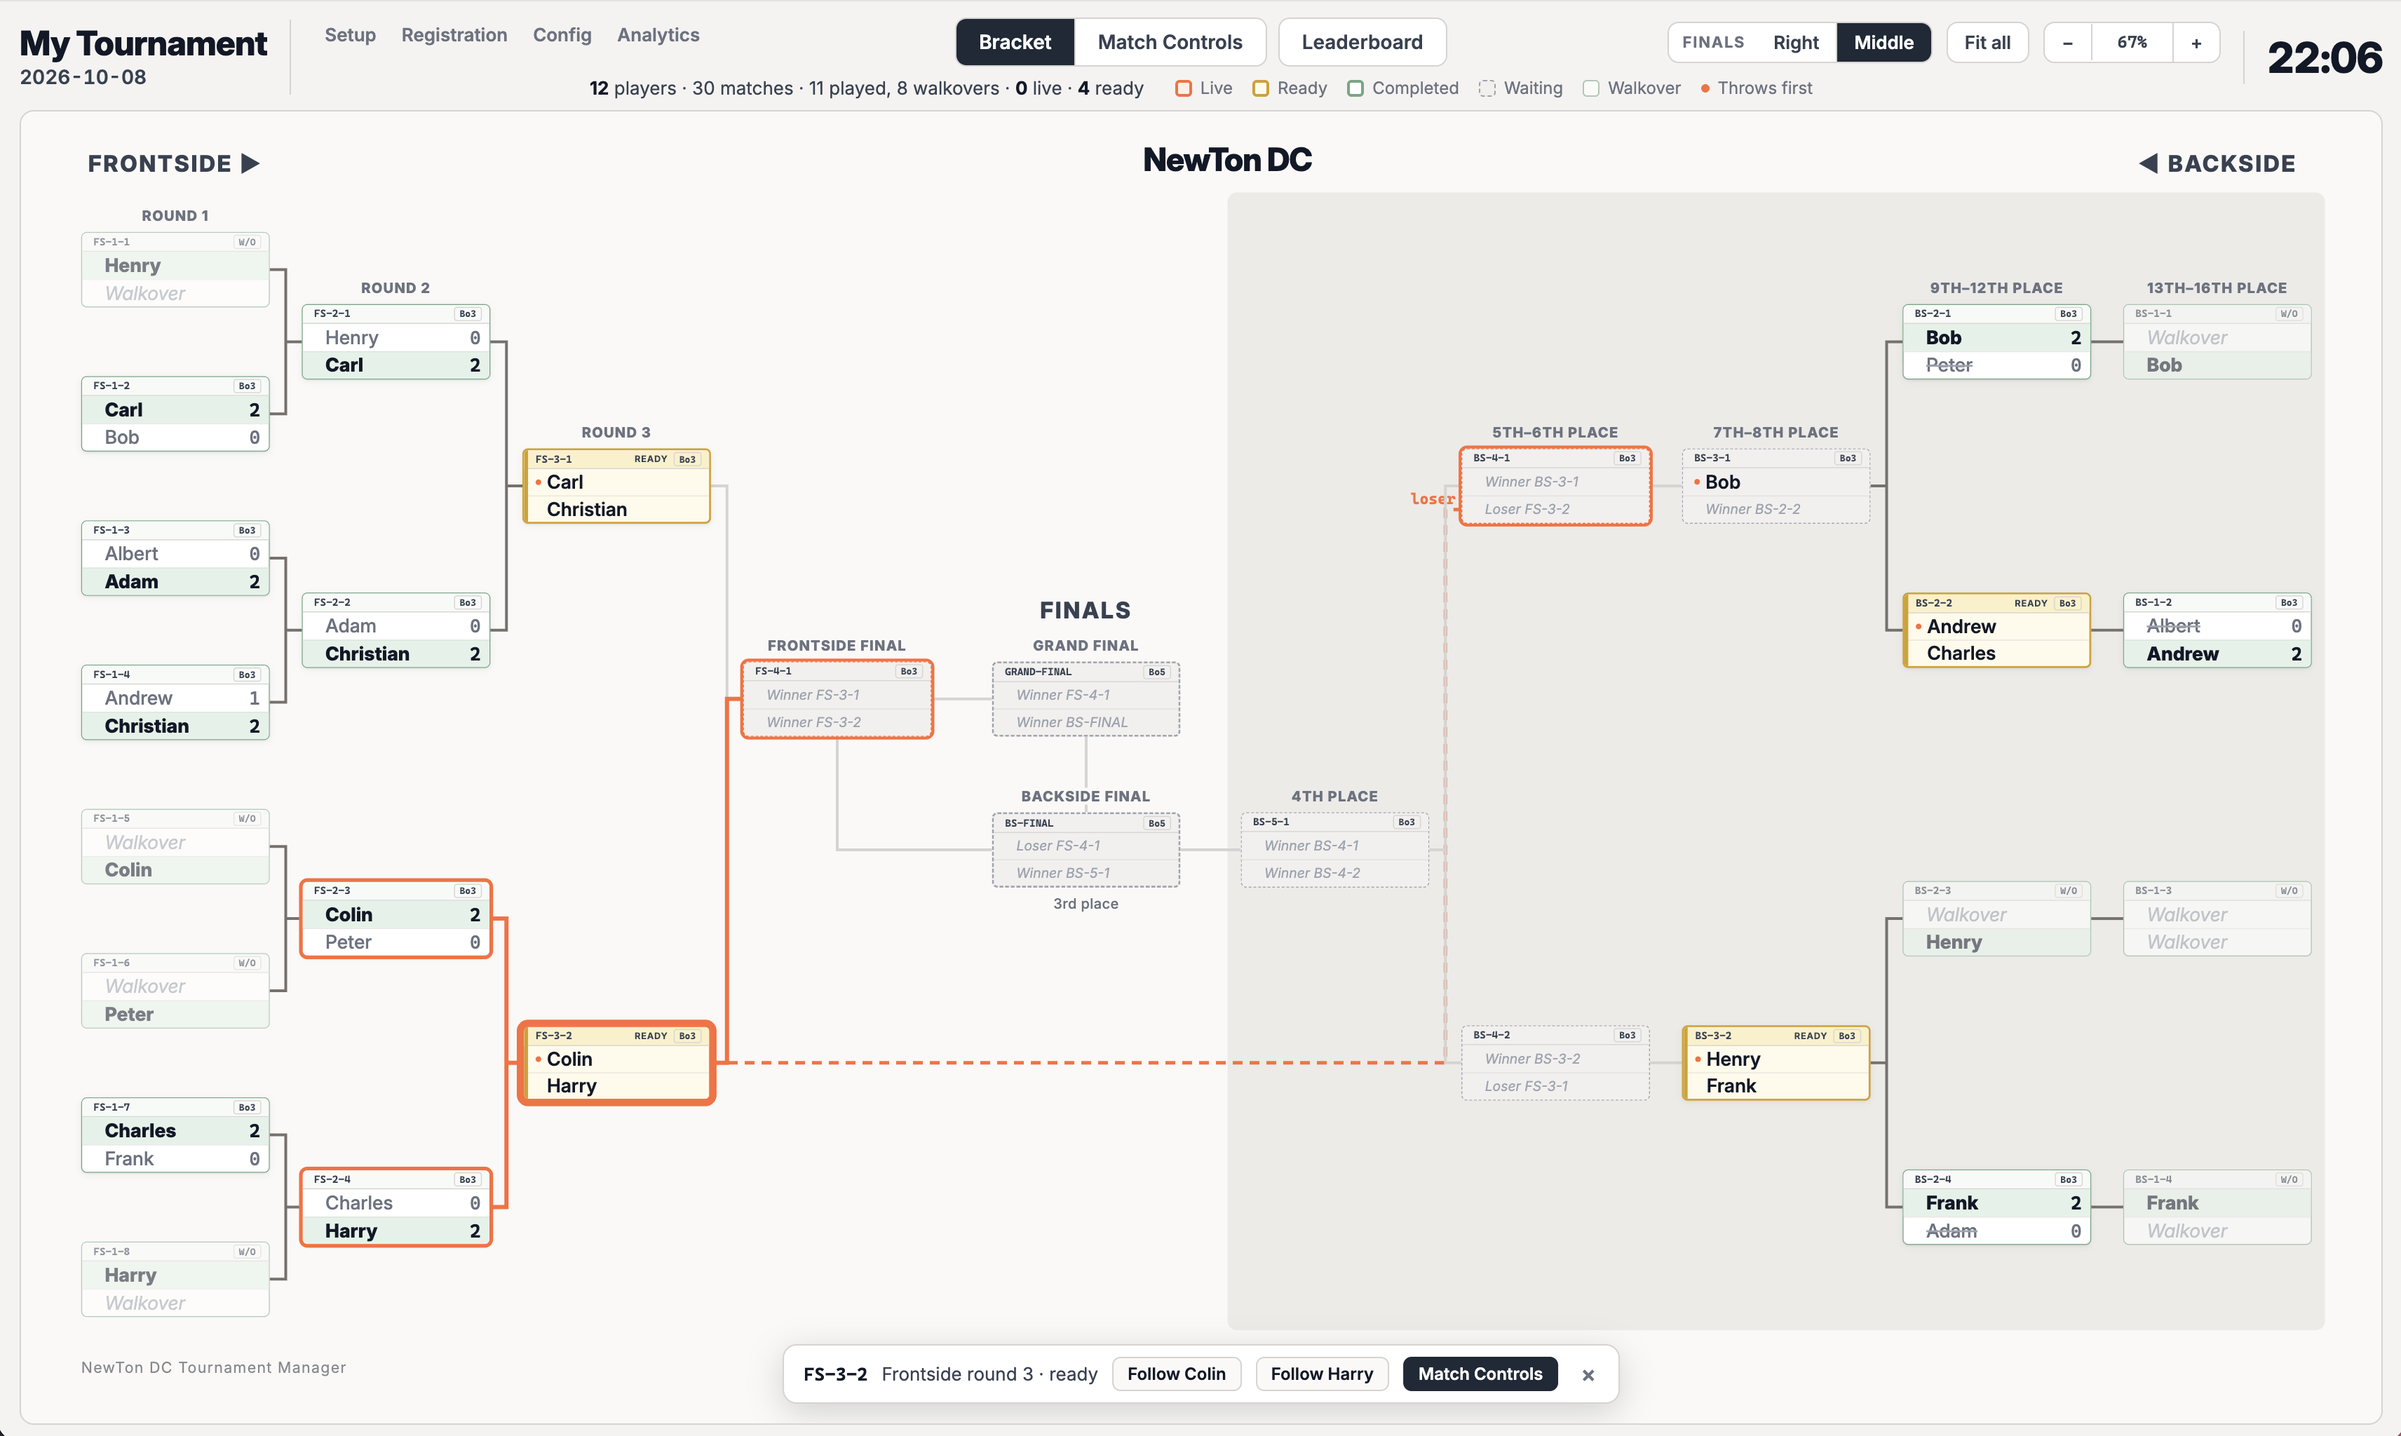
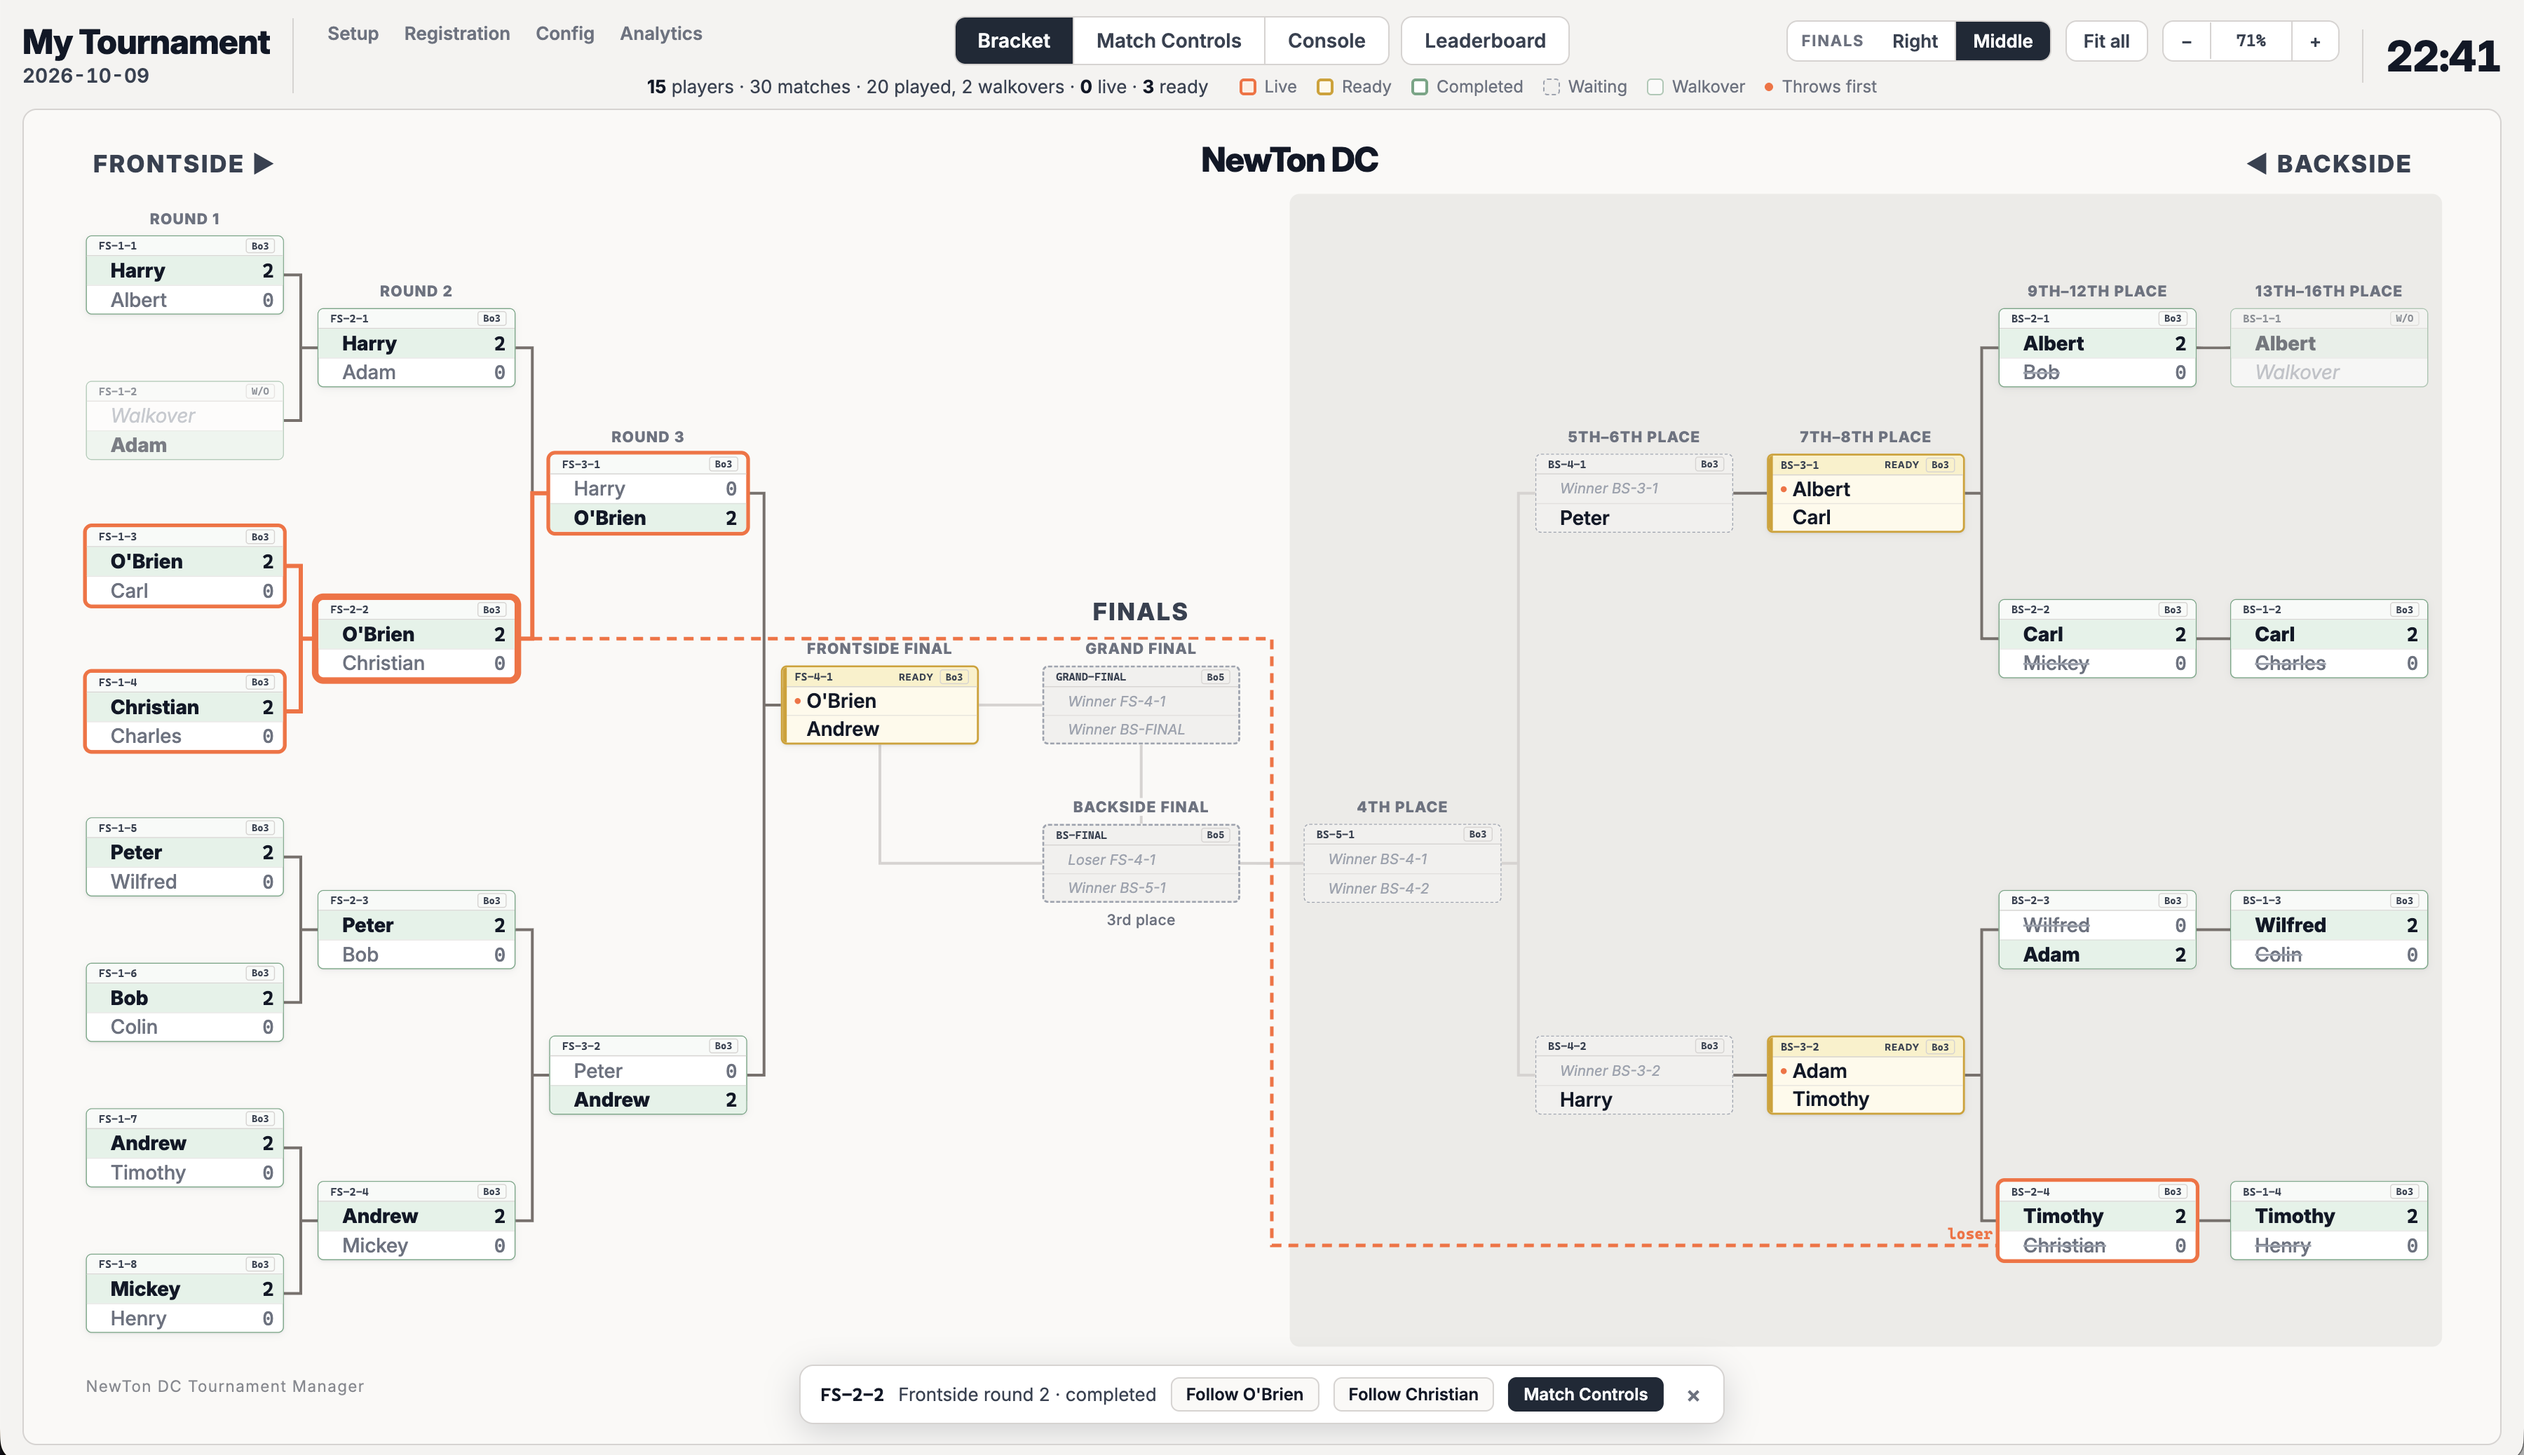
Bracket: loser drops bend halfway, clear of cards and lines
A selected match's loser drop bent just before its target column, on top
of the backside's own forks. It now bends in the column gap nearest
halfway that crosses no card and runs along no line; the winner lines
are drawn first so the drops know where the forks run.
New bracket screenshot for the landing page and README.

diff --git a/js/bracket-view.js b/js/bracket-view.js
@@ -671,8 +671,22 @@ const BracketView = (() => {
         const boxes = st.ids.map(i => ({ id: i, x0: pos[i].x, x1: pos[i].x + W, y0: pos[i].y, y1: pos[i].y + H }));
         const crosses = (xa, xb, yy, skip) => boxes.some(b => !skip.includes(b.id) && yy > b.y0 - 4 && yy < b.y1 + 4 &&
             Math.max(xa, xb) > b.x0 && Math.min(xa, xb) < b.x1);
+        // the middle of every gap between two columns of cards (where a loser drop may bend)
+        const colX = [...new Set(boxes.map(b => b.x0))].sort((a, b) => a - b);
+        const gaps = colX.slice(1).map((x, i) => [colX[i] + W, x]).filter(([a, b]) => b > a).map(([a, b]) => (a + b) / 2);
         const edges = [];
-        st.ids.forEach(src => ['winner', 'loser'].forEach(kind => {
+        // every vertical run drawn so far, [x, y from, y to]: a loser drop never bends along one
+        const vRuns = [];
+        const addRuns = path => {
+            let x = 0, y = 0;
+            (path.match(/[MHV][^MHV]+/g) || []).forEach(tok => {
+                const n = tok.slice(1).trim().split(/\s+/).map(Number);
+                if (tok[0] === 'M') { x = n[0]; y = n[1]; } else if (tok[0] === 'H') x = n[0];
+                else { vRuns.push([x, Math.min(y, n[0]), Math.max(y, n[0])]); y = n[0]; }
+            });
+        };
+        // the winner lines first, so the loser drops know where the forks run
+        ['winner', 'loser'].forEach(kind => st.ids.forEach(src => {
             const d = prog[src] && prog[src][kind]; if (!d) return;
             const [dst, slot] = d;
             const s = pos[src], t = pos[dst];
@@ -720,7 +734,21 @@ const BracketView = (() => {
                 // loser drops on selection: enter the player row they fill
                 const y1 = cy(src), y2 = always ? cy(dst) : slotY(dst, slot);
                 const adjacent = Math.abs(x2 - x1) <= Math.max(GX, CENTER_GAP, FINALS_GAP) + 1;
-                const mx = adjacent ? (x1 + x2) / 2 : x2 - dir * GX / 2;
+                let mx = adjacent ? (x1 + x2) / 2 : x2 - dir * GX / 2;
+                // a loser drop bends as near halfway as it can (an S or Z): in the column gap nearest
+                // halfway that crosses no card and runs along no line, clear of the target side's own
+                // forks in the gap before its column. Where there is none, it keeps the late bend
+                if (kind === 'loser' && !always && !adjacent) {
+                    const half = (x1 + x2) / 2, ya = Math.min(y1, y2), yb = Math.max(y1, y2), skip = [src, dst];
+                    const clear = x => !boxes.some(b => !skip.includes(b.id) && x > b.x0 - 4 && x < b.x1 + 4 && yb > b.y0 && ya < b.y1) &&
+                        !vRuns.some(([vx, a, b]) => Math.abs(vx - x) < 4 && b > ya && a < yb) &&
+                        !crosses(x1, x, y1, skip) && !crosses(x, x2, y2, skip);
+                    const between = x => (x - x1) * dir > 0 && (mx - x) * dir > 0;
+                    const best = gaps.filter(between).sort((a, b) => Math.abs(a - half) - Math.abs(b - half)).find(clear);
+                    if (best !== undefined) mx = best;
+                    // the late bend shares its gap with a fork: beside the fork, nearer the target card
+                    else if (vRuns.some(([vx, a, b]) => Math.abs(vx - mx) < 4 && b > ya && a < yb)) mx = x2 - dir * GX / 4;
+                }
                 if (kind === 'winner' && !adjacent && crosses(x1, mx, y1, [src, dst])) {
                     const yR = y1 < L.mid ? -56 : L.ch + 30, ox = x1 + dir * GX / 2;
                     path = `M${x1} ${y1} H${ox} V${yR} H${mx} V${y2} H${x2}`;
@@ -745,6 +773,7 @@ const BracketView = (() => {
             p.setAttribute('class', always ? 'bv-edge' + (assigned ? ' bv-known' : '') : 'bv-drop');
             svg.appendChild(p);
             edges.push({ src, dst, kind, el: p });
+            if (always) addRuns(path);
         }));
 
         // single elimination: a dashed line ties the bronze final to the final (finals on the right:

diff --git a/landing.html b/landing.html
@@ -155,7 +155,7 @@
                         <li><b>Every format drawn its own way.</b> Cup and Plate back to back, groups beside their cups, Swiss into its top four.</li>
                     </ul>
                 </div>
-                <div class="shot"><img src="Screenshots/tournament-bracket-zoom.png" class="lightbox-trigger" data-full="Screenshots/tournament-bracket-zoom.png" alt="The bracket following one player's path, finals in the middle" loading="lazy"></div>
+                <div class="shot"><img src="Screenshots/tournament-bracket-zoom.png" class="lightbox-trigger" data-full="Screenshots/tournament-bracket-zoom.png" alt="The bracket with a match selected: the players' path to it, where the winner goes and the loser's drop to the backside, finals in the middle" loading="lazy"></div>
             </div>
 
             <div class="step">

diff --git a/landing-page.php b/landing-page.php
@@ -165,7 +165,7 @@ $jsonLdUrl = $baseUrl ? "\n        \"url\": \"{$baseUrl}\"," : '';
                         <li><b>Every format drawn its own way.</b> Cup and Plate back to back, groups beside their cups, Swiss into its top four.</li>
                     </ul>
                 </div>
-                <div class="shot"><img src="Screenshots/tournament-bracket-zoom.png" class="lightbox-trigger" data-full="Screenshots/tournament-bracket-zoom.png" alt="The bracket following one player's path, finals in the middle" loading="lazy"></div>
+                <div class="shot"><img src="Screenshots/tournament-bracket-zoom.png" class="lightbox-trigger" data-full="Screenshots/tournament-bracket-zoom.png" alt="The bracket with a match selected: the players' path to it, where the winner goes and the loser's drop to the backside, finals in the middle" loading="lazy"></div>
             </div>
 
             <div class="step">

diff --git a/CHANGELOG.md b/CHANGELOG.md
@@ -1,5 +1,14 @@
 ## Unreleased
 
+### Bracket: loser drops bend halfway
+
+- **A selected match's loser drop bent in the gap just before its target column**, where the backside's own winner lines fork into the next round: the dashed line climbed on top of those forks and was hard to follow (noticed by the maintainer looking for a screenshot). It now bends as near halfway as it can, an S or Z: out horizontally, down or up in the column gap nearest the middle, and horizontally into the player row it fills. A gap qualifies only if the bend crosses no card and runs along no other line; with the finals in the middle that is usually the open space beside the finals.
+- Where no gap qualifies, the late bend stays: drops into the backside's outer column (their last leg would cross the next column's cards; their gap has no forks), all drops with the finals on the right, and one drop in 32-player brackets. If the late bend's gap has a fork in it, the bend now sits beside the fork, nearer the target card, instead of on it.
+- To know where the forks run, the winner lines are drawn before the loser lines, and the vertical runs of the always-drawn lines are recorded. Only drawing changes: `bracket-view.js` never touches tournament data or the progression tables.
+- Tested in the browser: every loser drop in double elimination brackets of 8, 16 and 32 (finals in the middle and on the right) and with qualifiers (40): none crosses a card or runs along a line; 2 of 6, 6 of 14 and 13 of 30 bend near the middle with the finals in the middle. Single elimination, Cup and Plate, Round Robin and Swiss draw as before.
+- **A new bracket screenshot** (`Screenshots/tournament-bracket-zoom.png`, by the maintainer) for the landing page's bracket step and the README: a selected match, its loser's drop bending beside the finals. Alt texts say so (it said Follow).
+- Files changed: `js/bracket-view.js`, `Docs/BRACKET-REDESIGN.md`, `Screenshots/tournament-bracket-zoom.png`, `landing.html`, `landing-page.php`, `README.md`.
+
 ### Docker documentation: port 2020
 
 - **The documented host port was 8080**, but `docker-compose.yml` (and the SSL compose) publish `2020:2020`, so following the quick start led to a page that wasn't there. 2020 is the port by design ("Double 20", double tops; maintainer). Every `8080` in the current docs is now 2020: `http://localhost:2020`, `docker run -p 2020:2020`, the reverse-proxy and localhost-only examples, the troubleshooting steps.

diff --git a/Docs/BRACKET-REDESIGN.md b/Docs/BRACKET-REDESIGN.md
@@ -65,7 +65,7 @@ An earlier version stretched the card height (and name size) per window instead.
 - **Crossing lines.** A winner line that would cross other matches is routed around the bracket instead.
 - **Backside into the finals ("Right").** The backside runs right to left, so its last match's line leaves from its left side, runs under the bracket, up the right edge, and enters the backside final from the right.
 - **Frontside final (both layouts).** It feeds both finals: the winner's line runs straight on to the grand final, and the loser's line drops from the bottom middle of the card and turns into the backside final from the left. Both are always drawn. Winner goes on, loser drops down. (A T-junction off the grand final line was tried first; it made both branches look alike.)
-- **Loser drops** are drawn only for the selected match: dashed, entering the player row they fill, with a small "loser" tag. Exceptions: frontside final → backside final (above, both layouts), and with the finals on the right, frontside round 1 → backside round 1 is always drawn, exactly like the winner lines: centre to centre, so they mirror the frontside forks. With the finals in the middle those would cross the whole bracket, so they stay selection-only.
+- **Loser drops** are drawn only for the selected match: dashed, entering the player row they fill, with a small "loser" tag. They bend as near halfway as they can, an S or Z: in the column gap nearest the middle that crosses no card and runs along no other line (2026-10-11; before, every drop bent in the gap just before its target column, on top of the backside's own forks, which made it hard to follow). Where no such gap exists (drops into the backside's outer column, whose last leg would cross the next column's cards, and one drop in 32-player brackets), they keep the late bend; if that gap has a fork in it, the bend sits beside the fork, nearer the target card. Exceptions: frontside final → backside final (above, both layouts), and with the finals on the right, frontside round 1 → backside round 1 is always drawn, exactly like the winner lines: centre to centre, so they mirror the frontside forks. With the finals in the middle those would cross the whole bracket, so they stay selection-only.
 - **Line colour** is the same for every drawn line, except fainter into a match that has no players assigned yet.
 - **Line width** is constant on screen at any zoom.
 

diff --git a/README.md b/README.md
@@ -34,7 +34,7 @@ Analytics that grow with your club. Season leaderboards, player stats, and tourn
 6. **The final.** A podium with the night's highlights (most 180s, shortest leg, highest out), made to be photographed for the club chat.
 7. **The morning after.** Season standings, player profiles with form charts, finishes and averages, filtered to the nights that count. Members follow it on their phones.
 
-![The bracket, following one player's path](https://github.com/skrodahl/NewTon/blob/main/Screenshots/tournament-bracket-zoom.png)
+![The bracket with a match selected: where the winner goes, and the loser's drop to the backside](https://github.com/skrodahl/NewTon/blob/main/Screenshots/tournament-bracket-zoom.png)
 
 ![Match Controls: a tile for each live match, the free lanes and the next match](https://github.com/skrodahl/NewTon/blob/main/Screenshots/match-controls.png)
 
